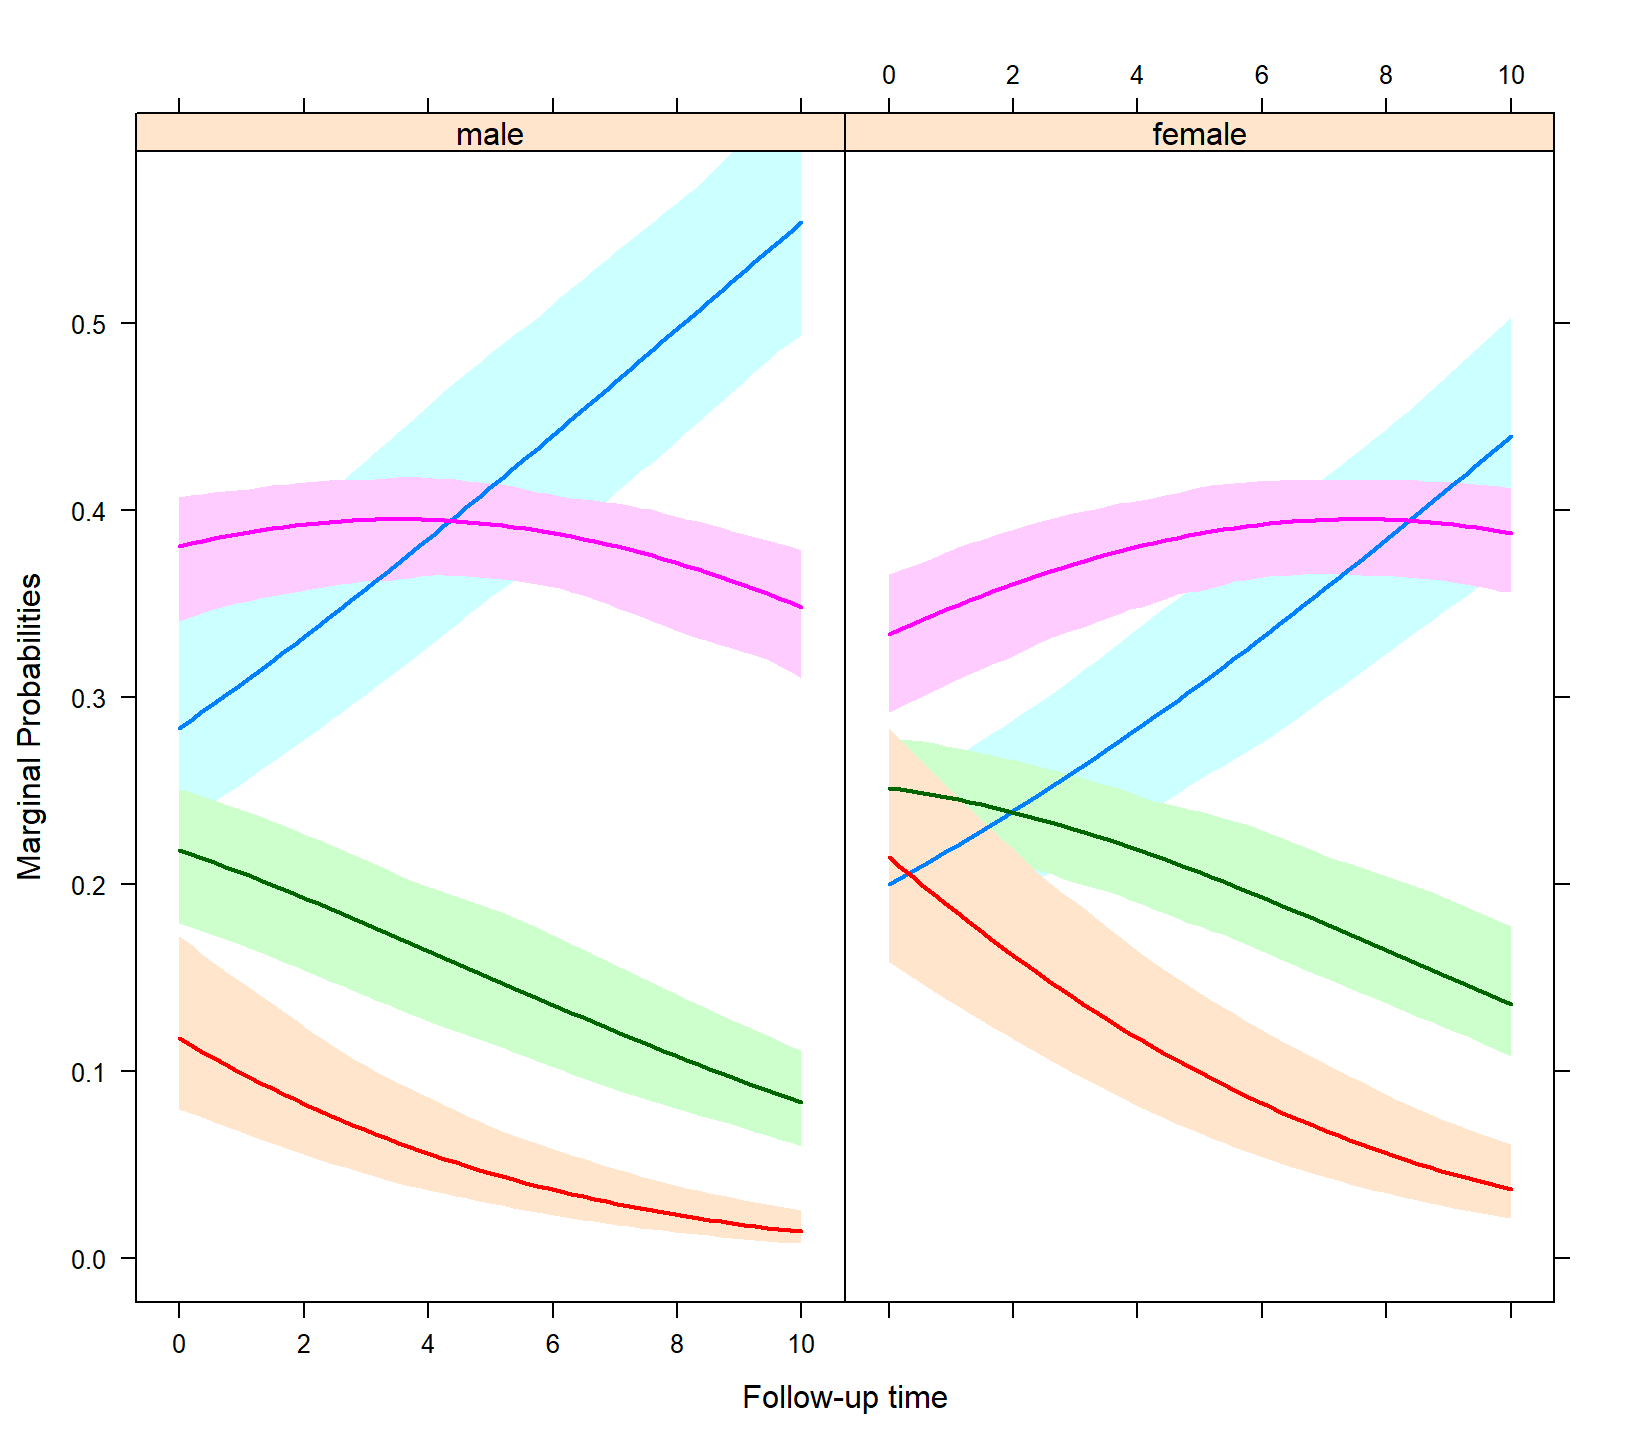
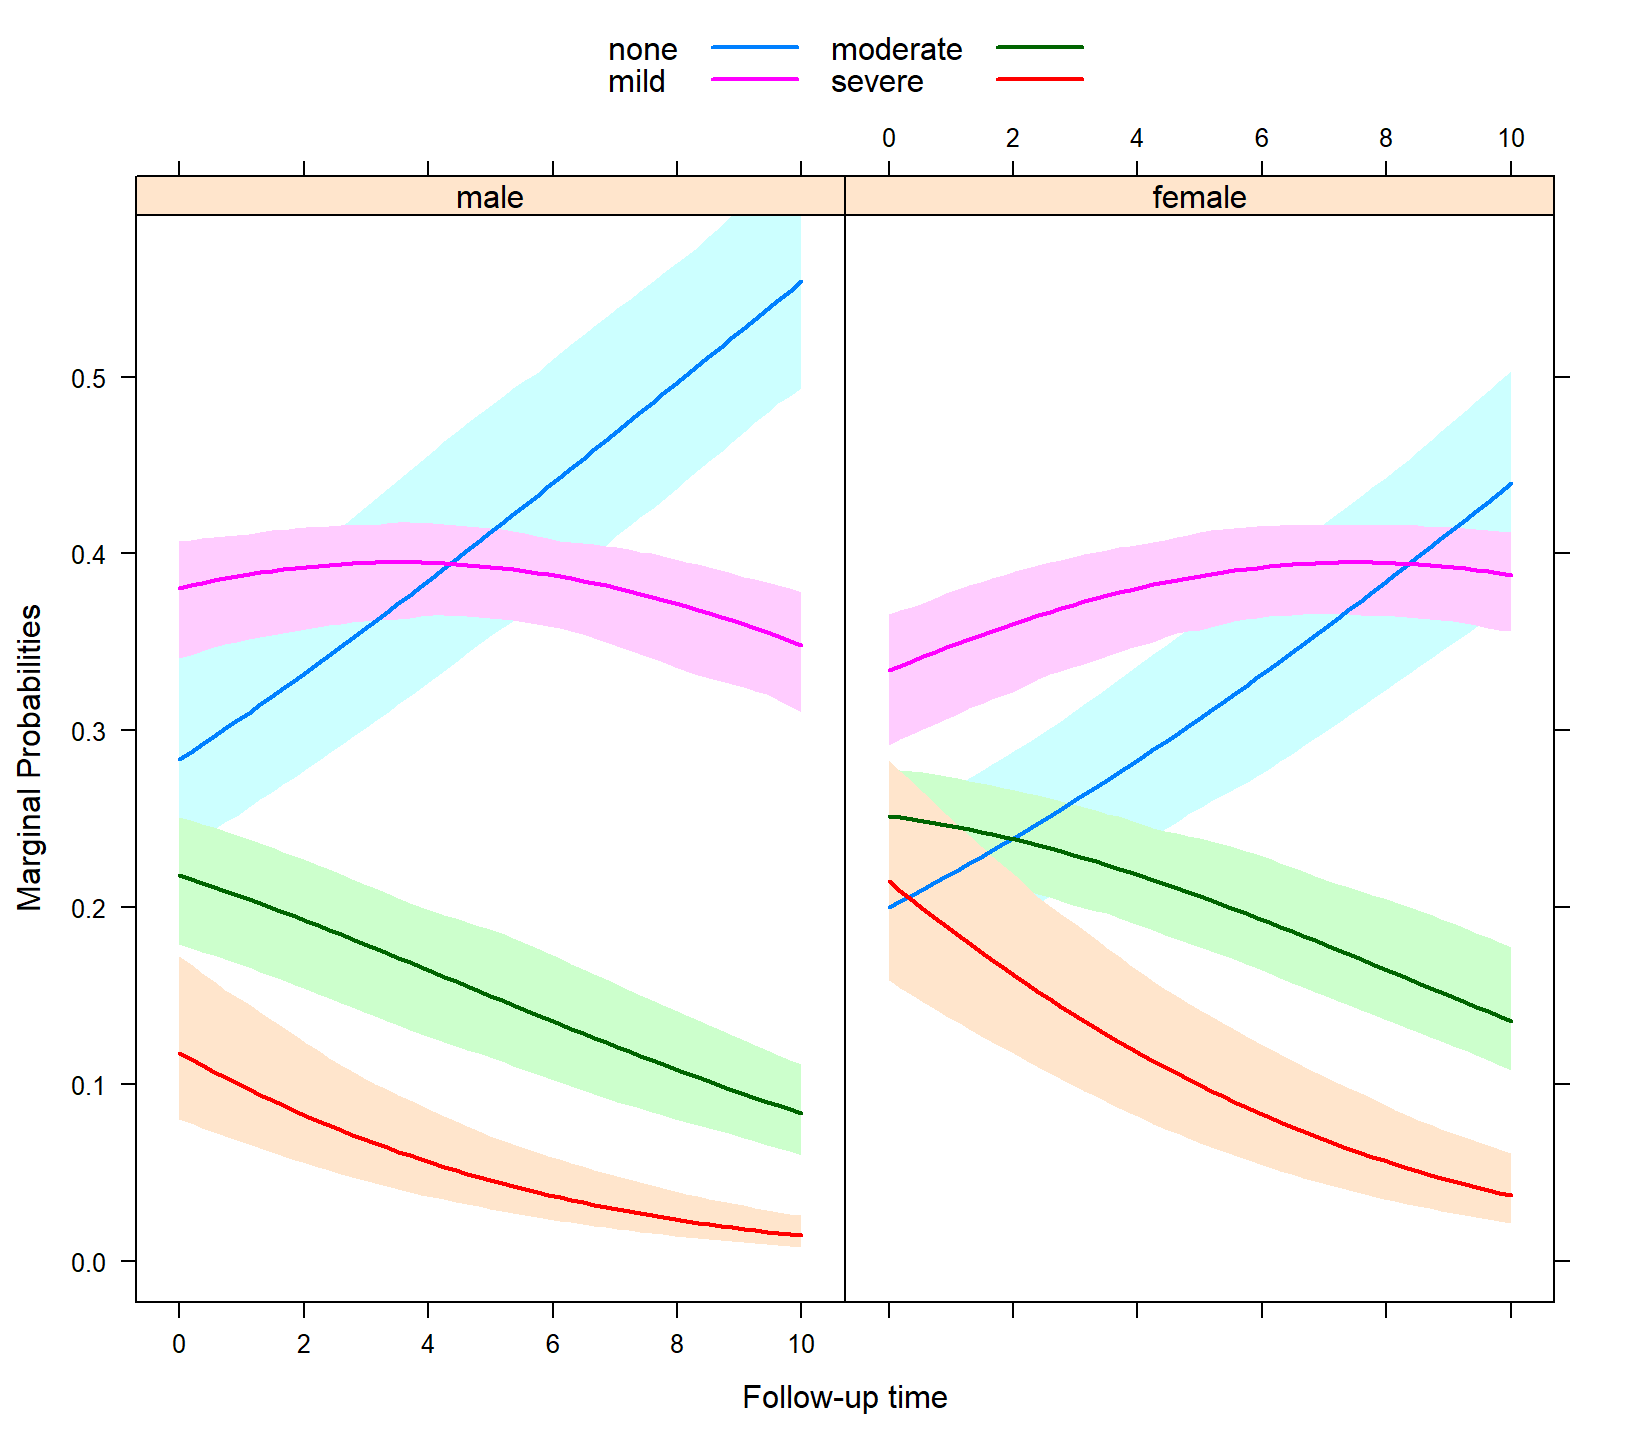
new pkgdown site

diff --git a/docs/articles/Ordinal_Mixed_Models.html b/docs/articles/Ordinal_Mixed_Models.html
@@ -199,7 +199,8 @@ eta_y &lt;-<span class="st"> </span><span class="kw"><a href="https://www.rdocum
 <span class="co"># marginal probabilities per category</span>
 mprobs &lt;-<span class="st"> </span><span class="kw"><a href="../reference/continuation_ratio.html">cr_marg_probs</a></span>(eta_y)
 <span class="co"># we simulate ordinal longitudinal data</span>
-DF<span class="op">$</span>y &lt;-<span class="st"> </span><span class="kw"><a href="https://www.rdocumentation.org/packages/base/topics/unname">unname</a></span>(<span class="kw"><a href="https://www.rdocumentation.org/packages/base/topics/apply">apply</a></span>(mprobs, <span class="dv">1</span>, sample, <span class="dt">x =</span> <span class="kw"><a href="https://www.rdocumentation.org/packages/base/topics/nrow">ncol</a></span>(mprobs), <span class="dt">size =</span> <span class="dv">1</span>, <span class="dt">replace =</span> <span class="ot">TRUE</span>))</code></pre></div>
+DF<span class="op">$</span>y &lt;-<span class="st"> </span><span class="kw"><a href="https://www.rdocumentation.org/packages/base/topics/unname">unname</a></span>(<span class="kw"><a href="https://www.rdocumentation.org/packages/base/topics/apply">apply</a></span>(mprobs, <span class="dv">1</span>, sample, <span class="dt">x =</span> <span class="kw"><a href="https://www.rdocumentation.org/packages/base/topics/nrow">ncol</a></span>(mprobs), <span class="dt">size =</span> <span class="dv">1</span>, <span class="dt">replace =</span> <span class="ot">TRUE</span>))
+DF<span class="op">$</span>y &lt;-<span class="st"> </span><span class="kw"><a href="https://www.rdocumentation.org/packages/base/topics/factor">factor</a></span>(DF<span class="op">$</span>y, <span class="dt">levels =</span> <span class="dv">1</span><span class="op">:</span><span class="dv">4</span>, <span class="dt">labels =</span> <span class="kw"><a href="https://www.rdocumentation.org/packages/base/topics/c">c</a></span>(<span class="st">"none"</span>, <span class="st">"mild"</span>, <span class="st">"moderate"</span>, <span class="st">"severe"</span>))</code></pre></div>
 <p><strong>Note:</strong> If we wanted to simulate from the backward formulation of continuation ratio model, we need to reverse the ordering of the thresholds, namely the line <code>eta_y &lt;- outer(eta_y, thrs, "+")</code> of the code above should be replaced by <code>eta_y &lt;- outer(eta_y, rev(thrs), "+")</code>, and also specify in the call to <code><a href="../reference/continuation_ratio.html">cr_marg_probs()</a></code> that <code>direction = "backward"</code>.</p>
 </div>
 <div id="data-preparation-forward-formulation" class="section level3">
@@ -210,6 +211,7 @@ DF<span class="op">$</span>y &lt;-<span class="st"> </span><span class="kw"><a h
 cr_data &lt;-<span class="st"> </span>DF[cr_vals<span class="op">$</span>subs, ]
 cr_data<span class="op">$</span>y_new &lt;-<span class="st"> </span>cr_vals<span class="op">$</span>y
 cr_data<span class="op">$</span>cohort &lt;-<span class="st"> </span>cr_vals<span class="op">$</span>cohort</code></pre></div>
+<p>By default <code><a href="../reference/continuation_ratio.html">cr_setup()</a></code> works under the forward formulation (i.e., the one we have simulated from). To fit the continuation ratio model under the bacward formulation, we would need to set <code>direction = "backward"</code> in the call to <code><a href="../reference/continuation_ratio.html">cr_setup()</a></code>.</p>
 <p>Hence, to fit the model we will use the outcome <code>y_new</code> in the new dataset <code>cr_data</code>.</p>
 </div>
 <div id="basic-continuation-ratio-model" class="section level3">
@@ -235,8 +237,10 @@ fm
 <span class="co">#&gt; (Intercept) 1.346031</span>
 <span class="co">#&gt; </span>
 <span class="co">#&gt; Fixed effects:</span>
-<span class="co">#&gt; (Intercept)  cohorty&gt;=2  cohorty&gt;=3   sexfemale        time </span>
-<span class="co">#&gt;  -0.9269543   1.0520746   1.5450799  -0.4591298   0.1143118 </span>
+<span class="co">#&gt;       (Intercept)     cohorty&gt;=mild cohorty&gt;=moderate         sexfemale </span>
+<span class="co">#&gt;        -0.9269543         1.0520746         1.5450799        -0.4591298 </span>
+<span class="co">#&gt;              time </span>
+<span class="co">#&gt;         0.1143118 </span>
 <span class="co">#&gt; </span>
 <span class="co">#&gt; log-Lik: -2712.608</span></code></pre></div>
 <p>According to the definition of the model, the coefficients have a log odds ratio interpretation for a unit increase of the corresponding covariate. For example, <code>exp(fixef(fm)['sexfemale']) =</code> 0.63 is the odds ratio for females versus males for <span class="math inline">\(y = k\)</span>, whatever the conditioning event <span class="math inline">\(y \geq k\)</span>.</p>
@@ -264,12 +268,14 @@ gm
 <span class="co">#&gt; (Intercept) 1.3446</span>
 <span class="co">#&gt; </span>
 <span class="co">#&gt; Fixed effects:</span>
-<span class="co">#&gt;          (Intercept)           cohorty&gt;=2           cohorty&gt;=3 </span>
-<span class="co">#&gt;           -0.9247568            1.0967165            1.4406591 </span>
-<span class="co">#&gt;            sexfemale                 time cohorty&gt;=2:sexfemale </span>
-<span class="co">#&gt;           -0.4605628            0.1140999           -0.0843883 </span>
-<span class="co">#&gt; cohorty&gt;=3:sexfemale </span>
-<span class="co">#&gt;            0.1790653 </span>
+<span class="co">#&gt;                 (Intercept)               cohorty&gt;=mild </span>
+<span class="co">#&gt;                  -0.9247568                   1.0967165 </span>
+<span class="co">#&gt;           cohorty&gt;=moderate                   sexfemale </span>
+<span class="co">#&gt;                   1.4406591                  -0.4605628 </span>
+<span class="co">#&gt;                        time     cohorty&gt;=mild:sexfemale </span>
+<span class="co">#&gt;                   0.1140999                  -0.0843883 </span>
+<span class="co">#&gt; cohorty&gt;=moderate:sexfemale </span>
+<span class="co">#&gt;                   0.1790653 </span>
 <span class="co">#&gt; </span>
 <span class="co">#&gt; log-Lik: -2711.869</span></code></pre></div>
 <p>To test whether this extension is required we can perform a likelihood ratio test using the <code><a href="../reference/methods.html">anova()</a></code> method:</p>
@@ -288,7 +294,7 @@ gm
                                  <span class="dt">time =</span> <span class="kw"><a href="https://www.rdocumentation.org/packages/base/topics/seq">seq</a></span>(<span class="dv">0</span>, <span class="dv">10</span>, <span class="dt">length.out =</span> <span class="dv">55</span>)))
 
 plot_data &lt;-<span class="st"> </span><span class="kw"><a href="../reference/effectPlotData.html">effectPlotData</a></span>(fm, nDF)</code></pre></div>
-<p>The we produce the plot with the following call to the <code>xyplot()</code> function from the <strong>lattice</strong> package:</p>
+<p>Then we produce the plot with the following call to the <code>xyplot()</code> function from the <strong>lattice</strong> package:</p>
 <div class="sourceCode"><pre class="sourceCode r"><code class="sourceCode r">expit &lt;-<span class="st"> </span><span class="cf">function</span> (x) <span class="kw"><a href="https://www.rdocumentation.org/packages/base/topics/Log">exp</a></span>(x) <span class="op">/</span><span class="st"> </span>(<span class="dv">1</span> <span class="op">+</span><span class="st"> </span><span class="kw"><a href="https://www.rdocumentation.org/packages/base/topics/Log">exp</a></span>(x))
 my_panel_bands &lt;-<span class="st"> </span><span class="cf">function</span>(x, y, upper, lower, fill, col, subscripts, ..., font, 
                            fontface) {
@@ -311,14 +317,31 @@ my_panel_bands &lt;-<span class="st"> </span><span class="cf">function</span>(x,
 <a href="#effect-plots-of-marginal-probabilities" class="anchor"></a>Effect Plots of Marginal Probabilities</h3>
 <p>The effect plot of the previous section depicts the conditional probabilities according to the forward formulation of the continuation ratio model. However, it is easier to understand the marginal probabilities of each category, calculated according to the formulas presented in the first section and the <code><a href="../reference/continuation_ratio.html">cr_marg_probs()</a></code> function. The <code><a href="../reference/effectPlotData.html">effectPlotData()</a></code> can calculate these marginal probabilities by invoking its <code>CR_cohort_varname</code> argument in which the name of the cohort variable needs to be provided. The following call calculates the plot data for the marginal probabilities based on model <code>fm</code>:</p>
 <div class="sourceCode"><pre class="sourceCode r"><code class="sourceCode r">plot_data_m &lt;-<span class="st"> </span><span class="kw"><a href="../reference/effectPlotData.html">effectPlotData</a></span>(fm, nDF, <span class="dt">CR_cohort_varname =</span> <span class="st">"cohort"</span>)</code></pre></div>
-<p>To plot these probabilities we use an analogous call to <code>xyplot()</code>:</p>
-<div class="sourceCode"><pre class="sourceCode r"><code class="sourceCode r"><span class="kw">xyplot</span>(<span class="kw">expit</span>(pred) <span class="op">~</span><span class="st"> </span>time <span class="op">|</span><span class="st"> </span>sex, <span class="dt">group =</span> ordinal_response, <span class="dt">data =</span> plot_data_m, 
+<p>The dataset produced by <code><a href="../reference/effectPlotData.html">effectPlotData()</a></code> contains a new variable named <code>ordinal_response</code> that specifies the different categories of the ordinal outcome. To plot these probabilities we use an analogous call to <code>xyplot()</code>:</p>
+<div class="sourceCode"><pre class="sourceCode r"><code class="sourceCode r">key &lt;-<span class="st"> </span><span class="kw"><a href="https://www.rdocumentation.org/packages/base/topics/list">list</a></span>(<span class="dt">space =</span> <span class="st">"top"</span>, <span class="dt">rep =</span> <span class="ot">FALSE</span>,
+            <span class="dt">text =</span> <span class="kw"><a href="https://www.rdocumentation.org/packages/base/topics/list">list</a></span>(<span class="kw"><a href="https://www.rdocumentation.org/packages/base/topics/levels">levels</a></span>(DF<span class="op">$</span>y)[<span class="dv">1</span><span class="op">:</span><span class="dv">2</span>]),
+            <span class="dt">lines =</span> <span class="kw"><a href="https://www.rdocumentation.org/packages/base/topics/list">list</a></span>(<span class="dt">lty =</span> <span class="kw"><a href="https://www.rdocumentation.org/packages/base/topics/c">c</a></span>(<span class="dv">1</span>, <span class="dv">1</span>), <span class="dt">lwd =</span> <span class="kw"><a href="https://www.rdocumentation.org/packages/base/topics/c">c</a></span>(<span class="dv">2</span>, <span class="dv">2</span>), <span class="dt">col =</span> <span class="kw"><a href="https://www.rdocumentation.org/packages/base/topics/c">c</a></span>(<span class="st">"#0080ff"</span>, <span class="st">"#ff00ff"</span>)),
+            <span class="dt">text =</span> <span class="kw"><a href="https://www.rdocumentation.org/packages/base/topics/list">list</a></span>(<span class="kw"><a href="https://www.rdocumentation.org/packages/base/topics/levels">levels</a></span>(DF<span class="op">$</span>y)[<span class="dv">3</span><span class="op">:</span><span class="dv">4</span>]),
+            <span class="dt">lines =</span> <span class="kw"><a href="https://www.rdocumentation.org/packages/base/topics/list">list</a></span>(<span class="dt">lty =</span> <span class="kw"><a href="https://www.rdocumentation.org/packages/base/topics/c">c</a></span>(<span class="dv">1</span>, <span class="dv">1</span>), <span class="dt">lwd =</span> <span class="kw"><a href="https://www.rdocumentation.org/packages/base/topics/c">c</a></span>(<span class="dv">2</span>, <span class="dv">2</span>), <span class="dt">col =</span> <span class="kw"><a href="https://www.rdocumentation.org/packages/base/topics/c">c</a></span>(<span class="st">"darkgreen"</span>, <span class="st">"#ff0000"</span>)))
+
+<span class="kw">xyplot</span>(<span class="kw">expit</span>(pred) <span class="op">~</span><span class="st"> </span>time <span class="op">|</span><span class="st"> </span>sex, <span class="dt">group =</span> ordinal_response, <span class="dt">data =</span> plot_data_m, 
        <span class="dt">upper =</span> <span class="kw">expit</span>(plot_data_m<span class="op">$</span>upp), <span class="dt">low =</span> <span class="kw">expit</span>(plot_data_m<span class="op">$</span>low), <span class="dt">type =</span> <span class="st">"l"</span>,
        <span class="dt">panel =</span> <span class="cf">function</span> (x, y, ...) {
            <span class="kw">panel.superpose</span>(x, y, <span class="dt">panel.groups =</span> my_panel_bands, ...)
-           <span class="kw">panel.xyplot</span>(x, y, <span class="dt">lwd =</span> <span class="dv">2</span>,  ...)
-       }, <span class="dt">xlab =</span> <span class="st">"Follow-up time"</span>, <span class="dt">ylab =</span> <span class="st">"Marginal Probabilities"</span>)</code></pre></div>
+           <span class="kw">panel.xyplot</span>(x, y, <span class="dt">lwd =</span> <span class="dv">2</span>, ...)
+       }, <span class="dt">xlab =</span> <span class="st">"Follow-up time"</span>, <span class="dt">ylab =</span> <span class="st">"Marginal Probabilities"</span>, <span class="dt">key =</span> key)</code></pre></div>
 <p><img src="Ordinal_Mixed_Models_files/figure-html/CR_probs_plot_marg-1.png" width="816" style="display: block; margin: auto;"></p>
+<p>To marginalize over the random effects as well you will need to set the <code>marginal</code> argument of effectPlotData to <code>TRUE</code>, e.g.,</p>
+<div class="sourceCode"><pre class="sourceCode r"><code class="sourceCode r">plot_data_m2 &lt;-<span class="st"> </span><span class="kw"><a href="../reference/effectPlotData.html">effectPlotData</a></span>(fm, nDF, <span class="dt">CR_cohort_varname =</span> <span class="st">"cohort"</span>, <span class="dt">marginal =</span> <span class="ot">TRUE</span>)</code></pre></div>
+<p>To plot these probabilities we use an analogous call to <code>xyplot()</code>:</p>
+<div class="sourceCode"><pre class="sourceCode r"><code class="sourceCode r"><span class="kw">xyplot</span>(<span class="kw">expit</span>(pred) <span class="op">~</span><span class="st"> </span>time <span class="op">|</span><span class="st"> </span>sex, <span class="dt">group =</span> ordinal_response, <span class="dt">data =</span> plot_data_m2, 
+       <span class="dt">upper =</span> <span class="kw">expit</span>(plot_data_m2<span class="op">$</span>upp), <span class="dt">low =</span> <span class="kw">expit</span>(plot_data_m2<span class="op">$</span>low), <span class="dt">type =</span> <span class="st">"l"</span>,
+       <span class="dt">panel =</span> <span class="cf">function</span> (x, y, ...) {
+           <span class="kw">panel.superpose</span>(x, y, <span class="dt">panel.groups =</span> my_panel_bands, ...)
+           <span class="kw">panel.xyplot</span>(x, y, <span class="dt">lwd =</span> <span class="dv">2</span>,  ...)
+       }, <span class="dt">xlab =</span> <span class="st">"Follow-up time"</span>, <span class="dt">ylab =</span> <span class="st">"Marginal Probabilities</span><span class="ch">\n</span><span class="st">also w.r.t Random Effects"</span>, 
+       <span class="dt">key =</span> key)</code></pre></div>
+<p><img src="Ordinal_Mixed_Models_files/figure-html/CR_probs_plot_marg2-1.png" width="816" style="display: block; margin: auto;"></p>
 </div>
 </div>
   </div>

diff --git a/docs/reference/continuation_ratio.html b/docs/reference/continuation_ratio.html
@@ -218,10 +218,14 @@
 <span class='co'>#################################################</span>
 
 <span class='co'># prepare the data</span>
+<span class='co'># If you want to fit the CR model under the backward formulation, you need to change</span>
+<span class='co'># `cr_vals &lt;- cr_setup(DF$y)` to `cr_vals &lt;- cr_setup(DF$y, "backward")`</span>
 <span class='no'>cr_vals</span> <span class='kw'>&lt;-</span> <span class='fu'>cr_setup</span>(<span class='no'>DF</span>$<span class='no'>y</span>)
 <span class='no'>cr_data</span> <span class='kw'>&lt;-</span> <span class='no'>DF</span>[<span class='no'>cr_vals</span>$<span class='no'>subs</span>, ]
 <span class='no'>cr_data</span>$<span class='no'>y_new</span> <span class='kw'>&lt;-</span> <span class='no'>cr_vals</span>$<span class='no'>y</span>
 <span class='no'>cr_data</span>$<span class='no'>cohort</span> <span class='kw'>&lt;-</span> <span class='no'>cr_vals</span>$<span class='no'>cohort</span>
+
+<span class='co'># fit the model</span>
 <span class='no'>fm</span> <span class='kw'>&lt;-</span> <span class='fu'><a href='mixed_model.html'>mixed_model</a></span>(<span class='no'>y_new</span> ~ <span class='no'>cohort</span> + <span class='no'>sex</span> * <span class='no'>time</span>, <span class='kw'>random</span> <span class='kw'>=</span> ~ <span class='fl'>1</span> <span class='kw'>|</span> <span class='no'>id</span>,
                   <span class='kw'>data</span> <span class='kw'>=</span> <span class='no'>cr_data</span>, <span class='kw'>family</span> <span class='kw'>=</span> <span class='fu'><a href='https://www.rdocumentation.org/packages/stats/topics/family'>binomial</a></span>())
 
@@ -261,10 +265,7 @@
 #&gt; 
 #&gt; Optimization:
 #&gt; method: EM
-#&gt; converged: TRUE </div><div class='input'>
-# If you want to fit the CR model under backward formulation, you need to change
-# `cr_vals <- cr_setup(DF$y)` to `cr_vals <- cr_setup(DF$y, "backward")`
-</div></pre>
+#&gt; converged: TRUE </div></pre>
   </div>
   <div class="col-md-3 hidden-xs hidden-sm" id="sidebar">
     <h2>Contents</h2>

diff --git a/docs/articles/Custom_Models.html b/docs/articles/Custom_Models.html
@@ -164,7 +164,7 @@ dd<span class="op">$</span>y &lt;-<span class="st"> </span><span class="kw"><a h
                         <span class="dt">initial_values =</span> <span class="kw"><a href="https://www.rdocumentation.org/packages/base/topics/list">list</a></span>(<span class="st">"betas"</span> =<span class="st"> </span><span class="kw"><a href="https://www.rdocumentation.org/packages/stats/topics/family">poisson</a></span>()))
 )
 <span class="co">#&gt;    user  system elapsed </span>
-<span class="co">#&gt;    5.49    0.04    5.97</span>
+<span class="co">#&gt;    5.88    0.02    6.38</span>
 
 fm1
 <span class="co">#&gt; </span>
@@ -237,7 +237,7 @@ fm1
                         <span class="dt">initial_values =</span> <span class="kw"><a href="https://www.rdocumentation.org/packages/base/topics/list">list</a></span>(<span class="st">"betas"</span> =<span class="st"> </span><span class="kw"><a href="https://www.rdocumentation.org/packages/stats/topics/family">poisson</a></span>()))
 )
 <span class="co">#&gt;    user  system elapsed </span>
-<span class="co">#&gt;    2.08    0.00    2.28</span>
+<span class="co">#&gt;    2.24    0.00    2.50</span>
 
 fm2
 <span class="co">#&gt; </span>

diff --git a/docs/reference/GLMMadaptive.html b/docs/reference/GLMMadaptive.html
@@ -164,7 +164,7 @@ Gaussian quadrature rule.</p>
 <tr><td>Type:</td><td>Package</td></tr>
 <tr><td></td><td>Version:</td></tr>
 <tr><td>0.5-1999</td><td></td></tr>
-<tr><td>Date:</td><td>2019-02-21</td></tr>
+<tr><td>Date:</td><td>2019-02-22</td></tr>
 <tr><td></td><td>License:</td></tr>
 <tr><td>GPL (&gt;=3)</td><td></td></tr>
 </table>
